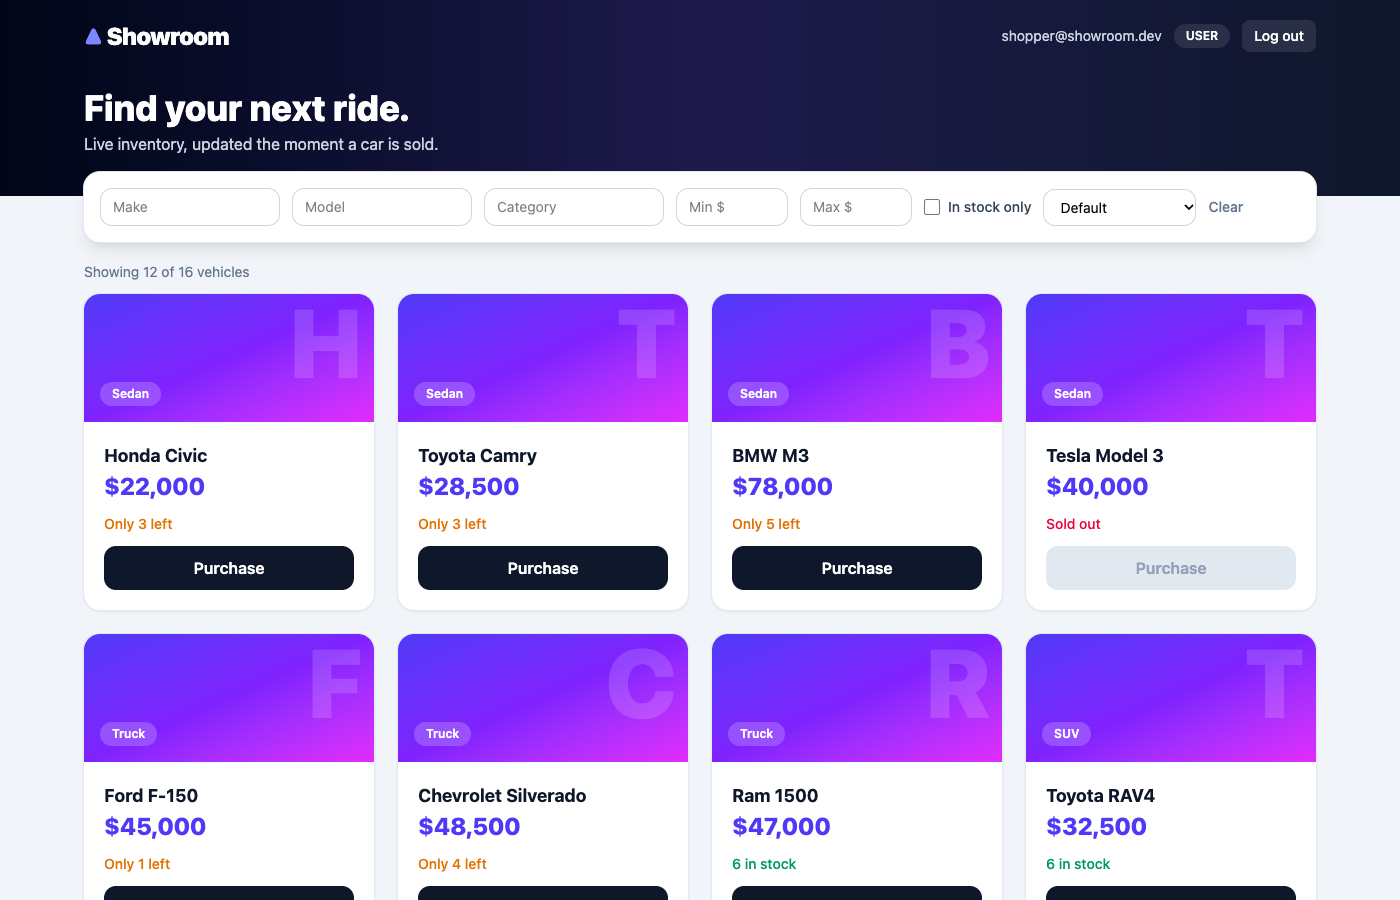
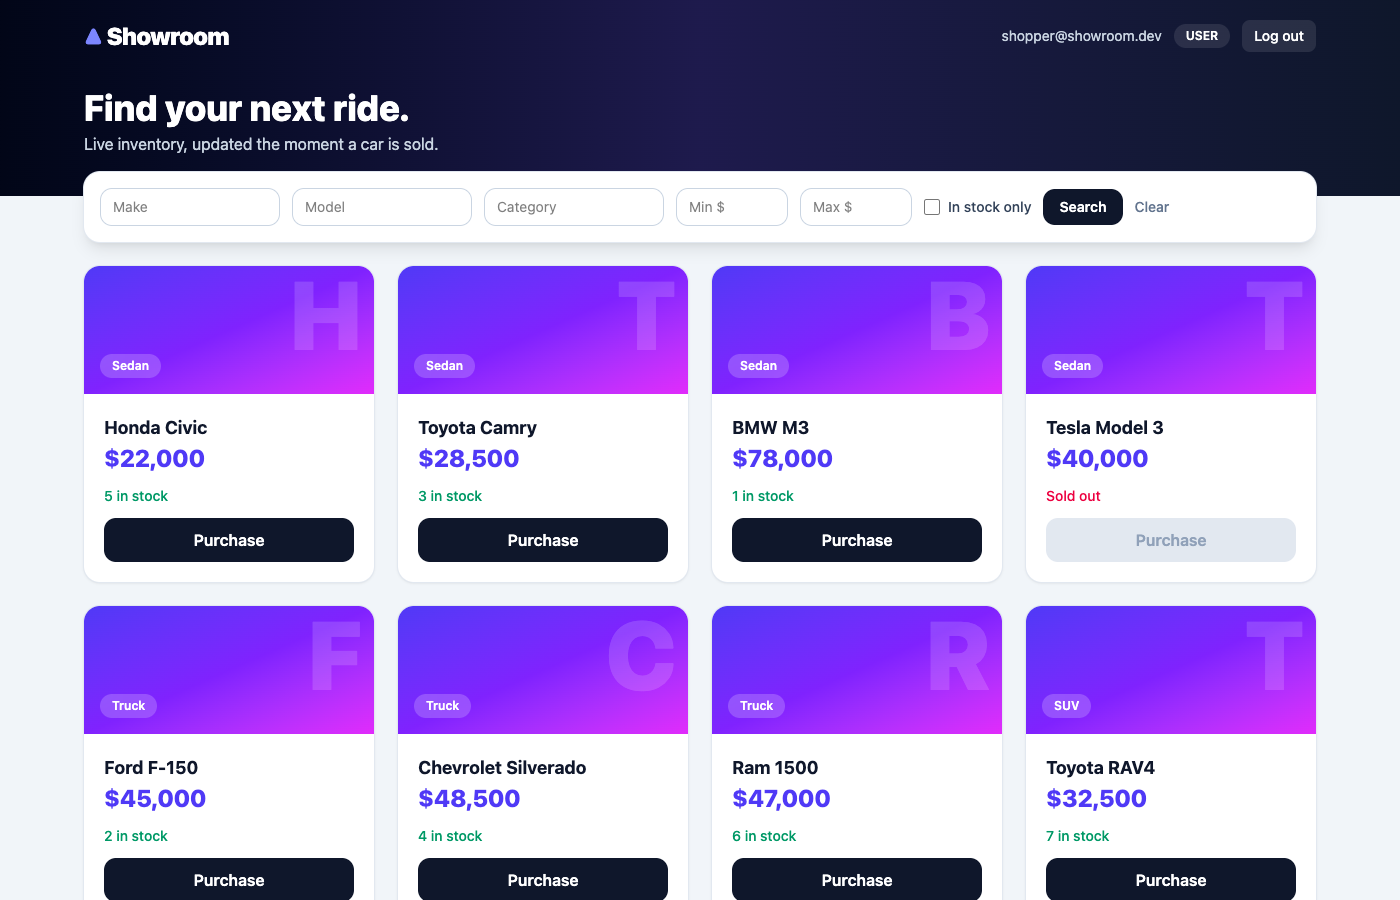
docs: README, screenshots and test reports for the simpler version

Changed region(s): [[0.0614, 0.28, 0.9521, 0.9956], [0.7371, 0.1867, 0.8293, 0.2489], [0.86, 0.2178, 0.8907, 0.2489]]

diff --git a/README.md b/README.md
@@ -1,98 +1,92 @@
 # Showroom: Car Dealership Inventory System
 
-A full-stack inventory app for a car dealership, built test-first as a TDD kata. Customers browse, search and buy; admins manage the catalogue and see exactly who bought or restocked what.
+A full-stack inventory app for a car dealership, built test-first for a TDD kata. Customers browse, search and buy cars. Admins add, edit, delete and restock them.
 
-**Stack:** Node.js + TypeScript, Express 5, SQLite (file-backed), JWT, Zod · React 19 + TypeScript, Vite, Tailwind CSS v4 · Vitest, Supertest, Testing Library, Playwright.
+**Stack:** Node.js + TypeScript, Express, SQLite, JWT · React + TypeScript, Vite, Tailwind CSS · Vitest, Supertest, Testing Library, Playwright.
 
-| | |
+| Admin dashboard | Search |
 | --- | --- |
-| ![Admin dashboard](docs/screenshots/04-dashboard-admin.png) | ![Activity](docs/screenshots/06-activity.png) |
+| ![Admin dashboard](docs/screenshots/04-dashboard-admin.png) | ![Search](docs/screenshots/03-search.png) |
+
+More screenshots are in [docs/screenshots](docs/screenshots): [login](docs/screenshots/01-login.png), [shopper view](docs/screenshots/02-dashboard-user.png), [add vehicle form](docs/screenshots/04b-add-vehicle.png), [mobile](docs/screenshots/05-mobile.png).
 
 ## What the brief asked for, and where it lives
 
-| Requirement | Where / how |
+| Requirement | Where |
 | --- | --- |
-| Register + login, JWT-protected routes | `backend/src/services/authService.ts`, `http/middleware.ts` |
-| `POST/GET/PUT/DELETE /api/vehicles`, `GET /search` | `backend/src/http/vehicleRoutes.ts` |
-| `purchase` (decrease) and `restock` (increase, admin) | `services/inventoryService.ts`, atomic SQL in `repositories/sqliteVehicleRepository.ts` |
-| Admin-only: delete, restock, **and add/update** | The brief's UI section gives admins add/update/delete, so the API enforces it too (see "A bug I caught" below) |
-| Real database (not in-memory) | SQLite file via Node's built-in `node:sqlite` ([ADR 1](docs/adr/0001-sqlite-via-node-builtin.md)) |
-| React SPA, Tailwind, search/filter, disabled Purchase at 0, admin forms | `frontend/src/` |
-| Responsive and creative design | see screenshots; mobile layout included |
-| TDD with a visible Red → Green → Refactor history | see [TDD history](#tdd-history) |
-| SOLID, clean code | [ADR 2](docs/adr/0002-layers-and-ports.md) |
-| README, screenshots, test report, "My AI Usage", `PROMPTS.md` | here |
+| Register + login, JWT-protected routes | `backend/src/auth.ts` |
+| Vehicle CRUD and `GET /search` | `backend/src/vehicles.ts` |
+| `purchase` (decrease) and `restock` (increase, admin only) | `backend/src/vehicles.ts` |
+| Admin-only: add, update, delete, restock | `requireAdmin` in `backend/src/auth.ts` |
+| Real database (not in-memory) | SQLite file, schema in `backend/src/db.ts` |
+| React SPA with Tailwind, search/filter, Purchase disabled at 0 stock, admin forms | `frontend/src/` |
+| Responsive design | see the [mobile screenshot](docs/screenshots/05-mobile.png) |
 
-### Beyond the brief (deliberate extras)
+## How it is organised
 
-- **Audit trail.** Every purchase/restock is recorded in the same transaction as the stock change (who, what, how many, when). History survives deleting a vehicle. Admin "Activity" panel + `GET /api/inventory/events`.
-- **Never oversells.** One conditional `UPDATE … WHERE quantity + ? >= 0`; a test fires 20 simultaneous buyers at 5 cars ([ADR 4](docs/adr/0004-atomic-stock-and-audit-trail.md)).
-- **Search that scales.** Sort, in-stock filter, pagination (`limit`/`offset`, total in `X-Total-Count`), `LIKE` wildcards escaped, sort column from a closed enum.
-- **Filters live in the URL** (`/?category=SUV&available=1&sort=price:asc`): shareable, refresh-proof, debounced.
-- **Security hygiene.** bcrypt, startup-validated config, rate-limited auth, helmet, same error and same timing for unknown email vs wrong password ([ADR 5](docs/adr/0005-security-and-error-contract.md)).
-- **Living API docs.** OpenAPI at `/api/openapi.json`, Swagger UI at `/api/docs`; a contract test fails if a documented route doesn't exist.
-- **UX craft.** Loading skeletons, toasts (errors announced via `role="alert"`), in-app confirm dialog focused on *Cancel*, Escape closes modals, double-click-proof buttons, low-stock warnings, empty/error states with retry.
-- **Delivery.** `npm run seed`, GitHub Actions CI (typecheck + unit + coverage + Playwright), Dockerfiles + compose.
-
-## Architecture
-
-```mermaid
-flowchart LR
-  UI[React SPA] -->|JSON + Bearer JWT| HTTP
-  subgraph API [Express API]
-    HTTP[http/ validate + delegate] --> SVC[services/ business rules]
-    SVC -->|ports| REPO[repositories/ SQLite]
-  end
-  REPO --> DB[(SQLite file)]
-  SVC -.unit-tested with.-> FAKES[in-memory fakes]
+```
+backend/src
+  server.ts     starts the API
+  app.ts        middleware, routes and error handler wired together
+  db.ts         creates the two tables (users, vehicles)
+  auth.ts       register, login, token check, admin check
+  vehicles.ts   list/search, add, update, delete, purchase, restock
+  errors.ts     one error class and one error handler
+  seed.ts       demo data
+frontend/src
+  App.tsx           login page or dashboard
+  AuthForm.tsx      login/register form
+  Dashboard.tsx     search bar, vehicle grid, add/edit, messages
+  VehicleCard.tsx   one car, with the Purchase and admin buttons
+  VehicleForm.tsx   add/edit popup
+  api.ts            every call to the backend
 ```
 
-`domain.ts` holds the types, `DomainError` codes and the interfaces the services depend on; `app.ts` is the only place that picks concrete implementations. Six short [decision records](docs/adr/) explain the non-obvious choices.
+Purchase is one SQL statement, `UPDATE vehicles SET quantity = quantity - 1 WHERE id = ? AND quantity > 0`, so stock can never go below zero, even with simultaneous buyers. A test fires 20 buyers at 5 cars and expects exactly 5 successes.
 
 ## Run it
 
-Requires **Node 22.5+** (developed on Node 26) for the built-in `node:sqlite`.
+Requires **Node 22.5+** (it uses the built-in `node:sqlite`).
 
 ```bash
 npm run install:all          # backend, frontend and e2e dependencies
 
 # terminal 1: API on :4000 (creates dealership.db)
 npm run dev:api
-# optional demo data: 16 vehicles + admin@showroom.dev / shopper@showroom.dev (password123)
+# optional demo data: 16 cars + admin@showroom.dev / shopper@showroom.dev (password123)
 npm run seed
 
 # terminal 2: web on :5173 (proxies /api to :4000)
 npm run dev:web
 ```
 
-Open http://localhost:5173. **The first account you register becomes the admin** ([ADR 3](docs/adr/0003-first-user-is-admin.md)), or use the seeded `admin@showroom.dev`. API docs: http://localhost:4000/api/docs.
+Open http://localhost:5173. **The first account you register becomes the admin**, or use the seeded `admin@showroom.dev`.
 
-Backend env (all optional in dev): `PORT` (4000), `DB_PATH` (`dealership.db`), `CORS_ORIGIN` (`*`), `JWT_SECRET` (**required, 32+ chars, when `NODE_ENV=production`**).
+Backend environment variables (all optional in development): `PORT` (4000), `DB_PATH` (`dealership.db`), `CORS_ORIGIN` (`*`), `JWT_SECRET` (**required** when `NODE_ENV=production`).
 
-**Docker** (`docker-compose.yml` + two Dockerfiles): written but **not built or run by me**. The Docker daemon wasn't available on my machine, so treat it as untested.
+**Docker:** `docker-compose.yml` and two Dockerfiles are included but I could not build or run them (no Docker daemon on my machine), so they are untested.
 
 ## API
 
-All `/api/vehicles*` and `/api/inventory*` routes need `Authorization: Bearer <token>`. Errors are `{ "error": "...", "code": "OUT_OF_STOCK" }`. Full schema: Swagger UI.
+All `/api/vehicles*` routes need `Authorization: Bearer <token>`. Errors look like `{ "error": "...", "code": "OUT_OF_STOCK" }`.
 
 | Method | Route | Access | Notes |
 | --- | --- | --- | --- |
-| POST | `/api/auth/register` | public | `{email, password}` → `{token, user}`; `409` duplicate |
-| POST | `/api/auth/login` | public | identical `401` for unknown email / wrong password; `429` when rate limited |
-| GET | `/api/vehicles` · `/api/vehicles/search` | user | `make model category minPrice maxPrice available sort order limit offset` |
+| POST | `/api/auth/register` | public | `{email, password}` → `{token, user}`; `409` if the email exists |
+| POST | `/api/auth/login` | public | same `401` for unknown email and wrong password; `429` when rate limited |
+| GET | `/api/vehicles` · `/api/vehicles/search` | user | `make model category minPrice maxPrice available` |
 | POST | `/api/vehicles` | **admin** | `{make, model, category, price, quantity}` |
-| PUT | `/api/vehicles/:id` | **admin** | partial update |
-| DELETE | `/api/vehicles/:id` | **admin** | `204`; sales history is kept |
-| POST | `/api/vehicles/:id/purchase` | user | optional `{quantity}` (default 1); `409 OUT_OF_STOCK` |
+| PUT | `/api/vehicles/:id` | **admin** | only the fields you send change |
+| DELETE | `/api/vehicles/:id` | **admin** | `204` |
+| POST | `/api/vehicles/:id/purchase` | user | `409` when out of stock |
 | POST | `/api/vehicles/:id/restock` | **admin** | `{amount}` |
-| GET | `/api/inventory/events` | **admin** | audit trail, newest first |
-| GET | `/api/health` | public | liveness + DB check |
+| GET | `/api/health` | public | liveness and database check |
 
 ## Tests
 
 ```bash
-npm test            # backend + frontend unit/integration
-npm run test:e2e    # Playwright in real Chrome against the real API and a throwaway DB
+npm test            # backend + frontend
+npm run test:e2e    # Playwright in real Chrome against the real API and a throwaway database
 npm run test:all    # typecheck + everything
 ```
 
@@ -100,52 +94,42 @@ npm run test:all    # typecheck + everything
 
 | Suite | Tests | Statements | Branches | Functions | Lines |
 | --- | --- | --- | --- | --- | --- |
-| Backend: service units + API (Supertest, real SQLite) | **113** ✅ | 95.1% | 90.3% | 100% | 95.5% |
-| Frontend: components + client (Testing Library) | **45** ✅ | 93.9% | 89.6% | 86.8% | 96.3% |
-| End-to-end (Playwright, Chrome) | **5** ✅ | n/a | n/a | n/a | n/a |
+| Backend (Supertest, real SQLite) | **59** passing | 96.4% | 91.7% | 100% | 95.9% |
+| Frontend (Testing Library) | **32** passing | 93.4% | 92.2% | 84.9% | 97.6% |
+| End-to-end (Playwright, Chrome) | **5** passing | n/a | n/a | n/a | n/a |
 
-Raw output: [backend](docs/test-report-backend.txt) · [frontend](docs/test-report-frontend.txt) · [e2e](docs/test-report-e2e.txt). The uncovered lines are mostly defensive branches (toast dismiss, load-more failure, the seed CLI guard). API tests use an isolated in-memory SQLite per test for speed; the running app always uses a file.
+Raw output: [backend](docs/test-report-backend.txt) · [frontend](docs/test-report-frontend.txt) · [e2e](docs/test-report-e2e.txt). The backend API tests use an in-memory SQLite database per test for speed; the running app always uses a file. CI runs everything on every push (`.github/workflows/ci.yml`).
 
 ### TDD history
 
-Each `test(red)` commit adds specs that I ran and watched fail; the next commit makes them pass; `refactor` changes structure with the suite untouched.
+Each `test(red)` commit adds tests that failed when I ran them. The next commit makes them pass. `git log --oneline` shows the real order.
 
-```
-test(red):  auth register/login               → feat: JWT auth + SQLite (green)
-test(red):  vehicle CRUD, search, purchase    → feat: vehicle routes (green)
-test(red):  malformed JSON is a 400           → fix: map to 400 (green)
-test(red):  only admins add/update vehicles   → fix: require admin (green)        ← bug found in review
-test(red):  service-level specs + fakes       → refactor: layers and ports        ← the Refactor step
-test(red):  multi-unit buy, concurrency, audit→ feat: transactional audit trail (green)
-test(red):  availability, sort, pagination    → feat: listing features (green)
-test(red):  config, health, headers, limits   → feat: hardening (green)
-test(red):  OpenAPI contract, seed            → feat: docs + seed (green)
-test(red):  frontend UX specs                 → feat: debounce, URL filters, toasts… (green)
-```
+The history also shows something I did on purpose: I first built extras (audit trail, pagination, sorting, OpenAPI docs, URL-synced filters), then removed them in the two `refactor` commits at the end, because they were more than the brief needed and made the code harder to explain. The required behaviour and its tests did not change.
 
-(`git log --oneline` shows the real sequence.)
+## What I did not build
 
-## Things I deliberately did not build
-
-Refresh tokens/revocation, password reset, a promote-to-admin screen, an ORM, GraphQL, a DI container, caching, a Redis-backed rate limiter, optimistic UI updates, payments. Each is a real feature for a real product; none earns its complexity in this scope, and the ADRs say where each would plug in.
+Refresh tokens, password reset, a screen to promote users to admin, pagination and sorting, payments, an ORM. None are in the brief.
 
 ## My AI Usage
 
-**Tool:** Claude Code (Anthropic's CLI agent, Claude Sonnet 5.5). Every AI-assisted commit has a `Co-Authored-By` trailer. The full prompts are in [PROMPTS.md](PROMPTS.md).
+**Tool:** Claude Code (Anthropic's CLI agent, Claude Sonnet 5.5). The prompts are in [PROMPTS.md](PROMPTS.md). These commits do not carry a `Co-authored-by` trailer, so this section is where AI use is recorded.
 
-**How I used it**
+**Where AI was used**
 
-- **Test-first pairing.** I used it to enumerate edge cases (negative stock, SQL wildcard input, refused purchases not being logged, history surviving deletes), wrote them as failing specs first, and only then let it implement. A failing run was the gate before every implementation.
-- **Design decisions were mine; typing was shared.** I chose the port boundaries, first-user-is-admin, the audit-trail model and what *not* to build. AI did the mechanical moves (the refactor into layers) and drafted components and Tailwind markup.
-- **AI as a skeptical reviewer.** After the first working version I asked it to critique the UI like a senior reviewer; the list (no loading state, `window.confirm`, a request per keystroke, filters lost on refresh, double-click buys twice) became the frontend specs.
-- **Tooling.** Scaffolding configs, Playwright setup, and a headless-Chrome script for the screenshots.
+| Area | What the AI did |
+| --- | --- |
+| Backend API (`auth.ts`, `vehicles.ts`, `db.ts`) | Wrote the Express routes and SQL, test-first |
+| Backend tests | Listed edge cases (negative stock, admin-only routes, invalid input, concurrent buyers) and wrote them as failing tests before the code |
+| Frontend components and Tailwind styling | Wrote the React components and the visual design |
+| Frontend tests | Wrote the Testing Library tests and the Playwright journeys |
+| Screenshots, CI workflow, Dockerfiles | Wrote them; the Dockerfiles were never run |
+| Refactoring | Split the code into layers, then, when I asked for simpler code, flattened it again |
 
-**Where it was wrong, and how I caught it** (all real, all in the history)
+**Mistakes the AI made, found during review**
 
-1. The first generated router let *any* logged-in user add and edit vehicles, so a shopper could reprice a car. Only delete/restock were admin-gated, because those were the only ones the brief labelled "Admin only". Re-reading the brief's UI section showed add/update are admin features too. I wrote the failing test first, then fixed it.
-2. It put a feature implementation into a commit labelled as a red test. I rewrote the local history so the red/green sequence is honest.
-3. One of its UI specs asserted two contradictory low-stock thresholds. I noticed when the green run failed and fixed the spec, not the code.
-4. The first end-to-end run failed on ambiguous button names ("Register" also matched "Already registered? Log in"). That's a real accessibility smell, so I made the selectors exact.
-5. It wrote Docker files I could not run. I say so above instead of claiming they work.
-
-**Reflection.** AI was strongest at breadth: edge-case lists, boilerplate, mechanical refactors, and a second pair of eyes. It was weakest at reading intent: it implemented what the brief literally labelled rather than what it implied (the admin gap), and it happily produced plausible-looking structure with no one asking "does this have to exist?". The workflow that worked was tests as the contract, small commits, and treating every generated diff as a pull request from a fast junior: read it, run it, and distrust the confident parts. The red/green discipline also made AI's mistakes cheap to find, because a wrong assumption shows up as a failing test rather than a production bug.
+1. The first router let any logged-in user add and edit vehicles. The brief only labelled delete and restock as "Admin only", but its UI section gives admins add and update too. A failing test came first, then the fix.
+2. A commit labelled as a red test also contained the implementation. The local history was rewritten so red and green are separate.
+3. One generated UI test asserted two different low-stock thresholds.
+4. The first end-to-end run failed on button names that matched twice ("Register" and "Already registered? Log in").
+5. It over-built: audit trail, pagination, sorting, OpenAPI. I asked for simpler code I could explain, so those were removed.
+6. It wrote Docker files it could not run.
